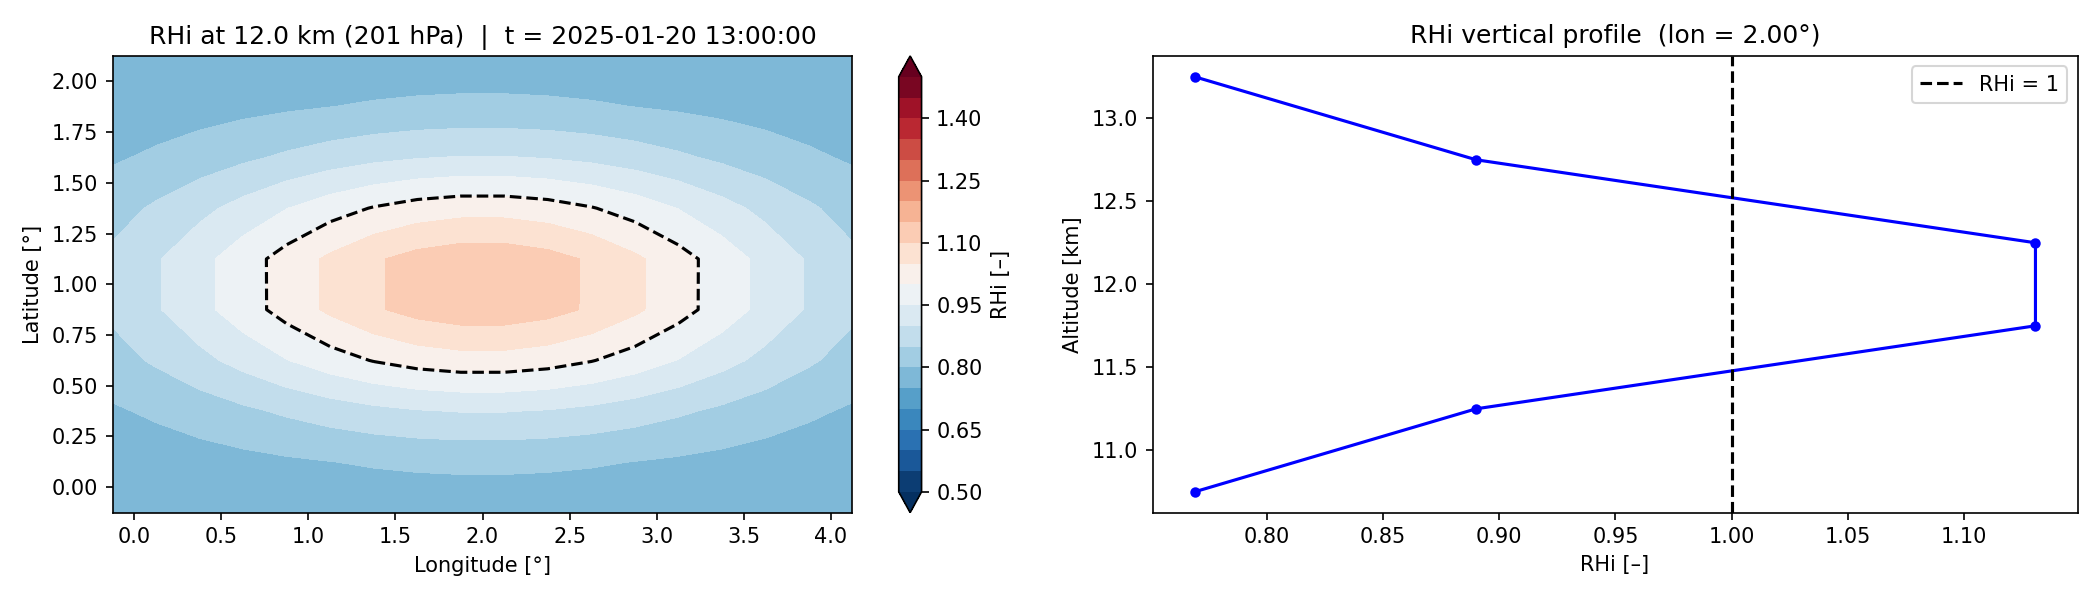
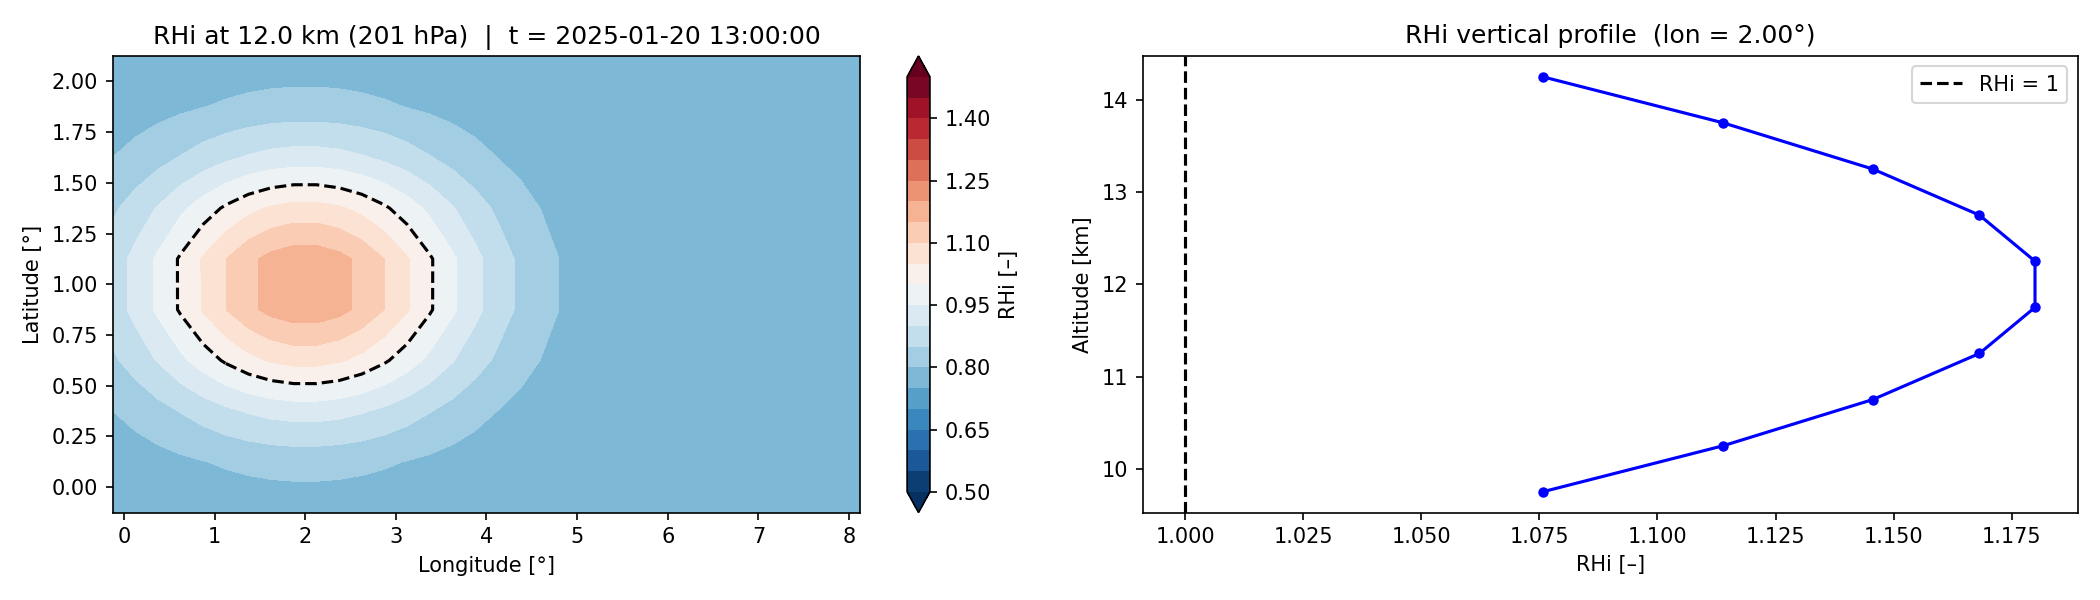
Code is now free of bugs and runs all the way through. That is not to say the results should be relied on right now. We still need to go through the rest of the code to understand the logic implemented, and determine whether it aligns well with what we have learnt from the literature. We will also n

diff --git a/issr_avoidance.py b/issr_avoidance.py
@@ -126,16 +126,16 @@ class SimParams:
     t_con: tuple = field(
         default_factory=lambda: (
             pd.to_datetime("2025-01-20 13:00:00"),
-            pd.Timedelta(minutes=1),
+            pd.Timedelta(hours=1),
             pd.Timedelta(hours=12),
         )
     )
     """(start, dt, duration) for the contrail / met time axis."""
 
     # -- Spatial domain --
-    lon_bounds: tuple[float, float] = (0.0, 4.0)        # [°]
+    lon_bounds: tuple[float, float] = (0.0, 8.0)        # [°] — wide enough for ~10 m/s wind × 12 h advection (~3.9°) plus flight path
     lat_bounds: tuple[float, float] = (0.0, 2.0)        # [°]
-    alt_bounds: tuple[float, float] = (11000.0, 13000.0)  # [m]
+    alt_bounds: tuple[float, float] = (10000.0, 14000.0)  # [m] — wide enough to cover avoidance strategies (±1500 m from 12 km ISSR)
     hres_sim: float = 0.25    # horizontal resolution [°]
     vres_sim: float = 500.0   # vertical resolution [m]
 
@@ -150,6 +150,9 @@ class FlParams:
     fl_target_alt: float | None = None
     """Cruise altitude [m]. ``None`` → midpoint of ``alt_bounds``."""
     fl_alt_delta: float = 1500.0    # altitude shift for avoidance strategies [m]
+    fl_lon_bounds: tuple[float, float] = (0.0, 4.0)
+    """Flight longitude range [°]. Narrower than the met domain so advected
+    contrails stay inside the wider met domain throughout the simulation."""
 
 
 @dataclass
@@ -166,7 +169,7 @@ class MetParams:
     """Uniform background atmospheric state."""
 
     air_temperature: float = 220.0                    # [K]
-    eastward_wind: float = 10.0                       # [m s⁻¹]
+    eastward_wind: float = 0.0                       # [m s⁻¹]
     northward_wind: float = 0.0                       # [m s⁻¹]
     lagrangian_tendency_of_air_pressure: float = 0.0  # [Pa s⁻¹]
 
@@ -187,7 +190,7 @@ class ISSRParams:
     """
 
     issr_centroid: tuple[float, float, float] = (2.0, 1.0, 12000.0)
-    """(lon [°], lat [°], alt [m]) of the ISSR peak."""
+    """(lon [°], lat [°], alt [m]) of the ISSR peak. Placed in western half so the contrail advects through it."""
 
     sigma_parallel: float = 150_000.0   # along-track (longitude) half-width [m]
     sigma_perp: float = 50_000.0        # across-track (latitude) half-width [m]
@@ -384,7 +387,7 @@ class ISSRAvoidance(Model):
 
         df = pd.DataFrame(
             {
-                "longitude": np.linspace(sp.lon_bounds[0], sp.lon_bounds[1], n_wp),
+                "longitude": np.linspace(fp.fl_lon_bounds[0], fp.fl_lon_bounds[1], n_wp),
                 "latitude": np.full(n_wp, lat_mid),
                 "altitude": np.full(n_wp, float(alt)),
                 "time": self.times_fl,
@@ -596,7 +599,13 @@ class ISSRAvoidance(Model):
             Lagrangian contrail segments; ``None`` if no persistent contrails
             formed.
         """
-        cocip = Cocip(met=met, rad=rad, **cocip_kwargs)
+        cocip = Cocip(
+            met=met,
+            rad=rad,
+            dt_integration=np.timedelta64(1, "h"),  # match 1-hour met time step
+            max_age=self.sim_params.t_con[2],        # stop tracking at end of met domain
+            **cocip_kwargs,
+        )
         fl_out = cocip.eval(fl)
         return fl_out, cocip.contrail
 
@@ -974,9 +983,9 @@ class ISSRAvoidance(Model):
 if __name__ == "__main__":
     # Customise any parameters here before running
     sim_params = SimParams(
-        lon_bounds=(0.0, 4.0),
+        lon_bounds=(0.0, 8.0),        # extra room for eastward wind advection
         lat_bounds=(0.0, 2.0),
-        alt_bounds=(11000.0, 13000.0),
+        alt_bounds=(10000.0, 14000.0),  # covers ±1500 m avoidance from 12 km ISSR
         hres_sim=0.25,
         vres_sim=500.0,
     )
@@ -984,7 +993,7 @@ if __name__ == "__main__":
         issr_centroid=(2.0, 1.0, 12000.0),
         sigma_parallel=150_000.0,
         sigma_perp=50_000.0,
-        sigma_z=500.0,
+        sigma_z=3000.0,
         rhi_bg=0.75,
         rhi_peak=1.20,
     )
